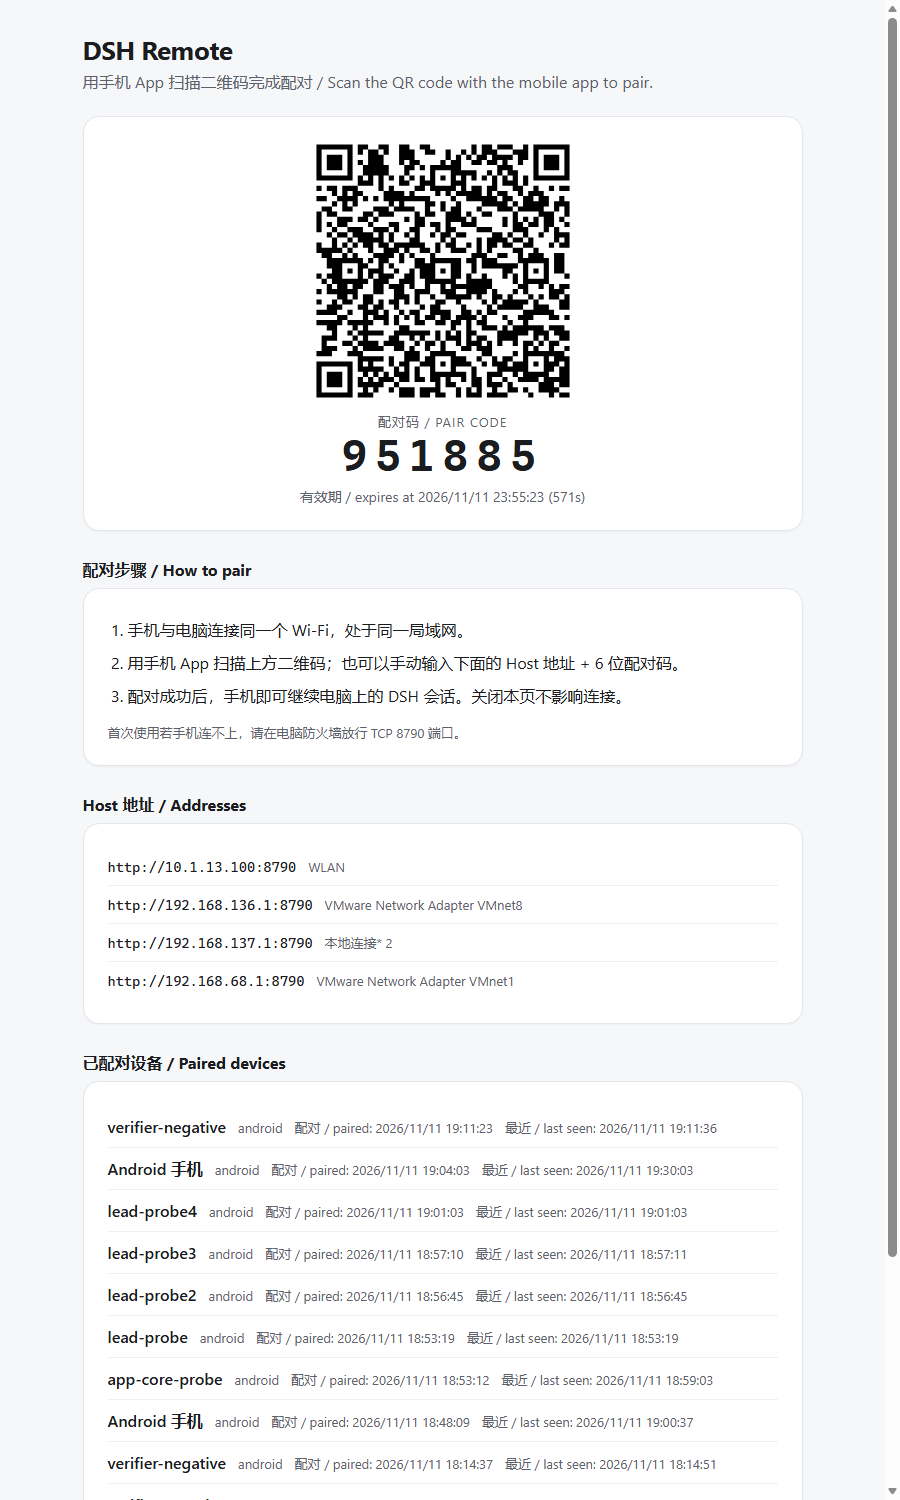
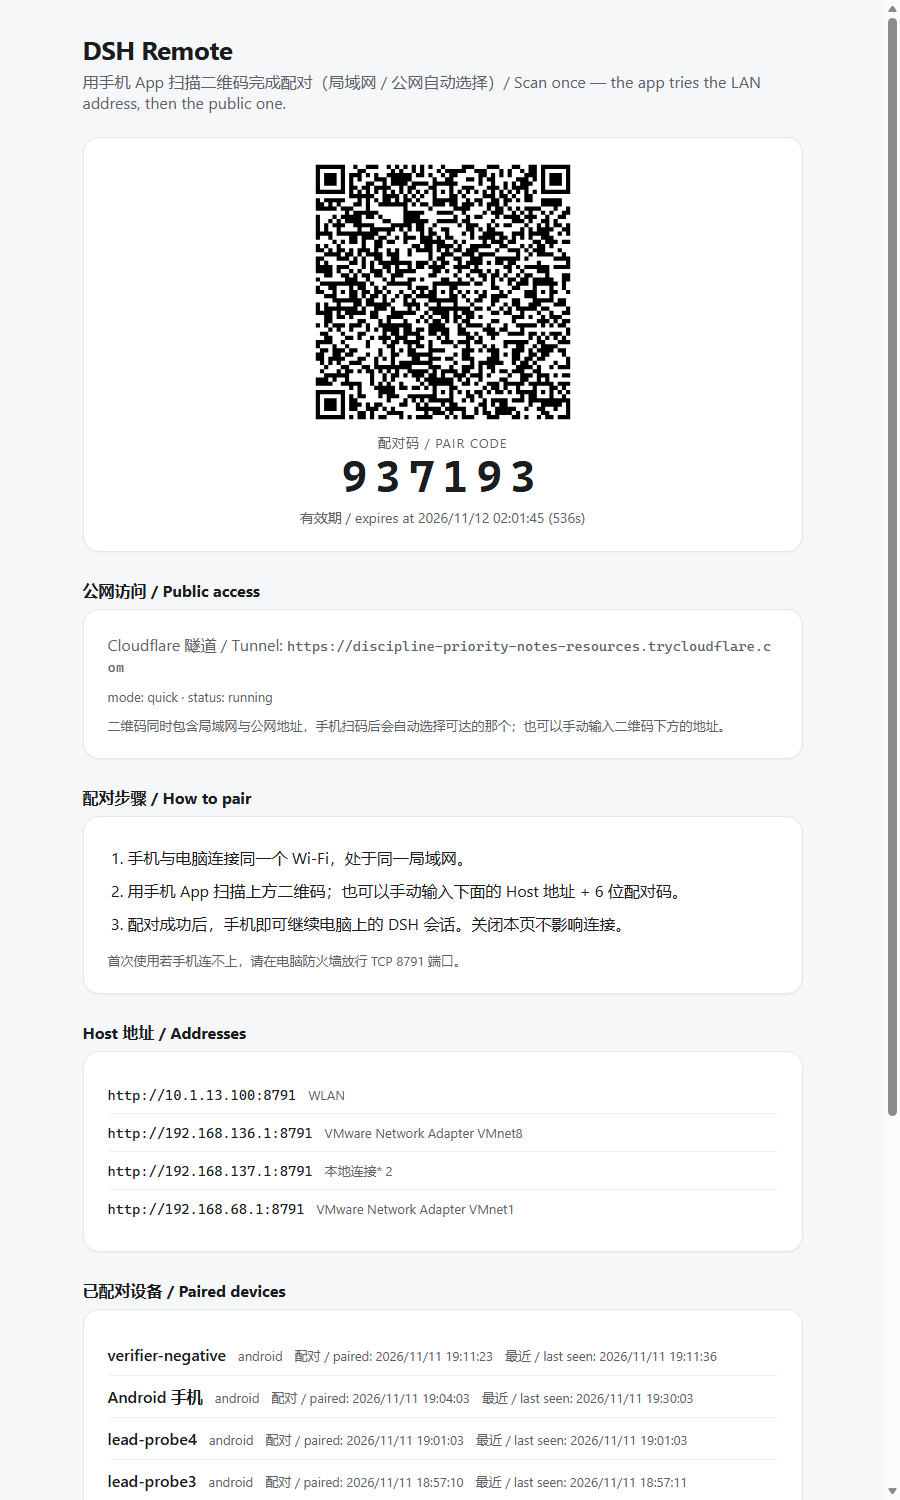
docs: refresh README screenshots for single-QR settings page and pairing page

diff --git a/README.md b/README.md
@@ -75,7 +75,7 @@
 
 <table>
 <tr>
-<td><img src="docs/verification/screenshots/centered-02-connect.png" alt="连接页" /></td>
+<td><img src="docs/verification/screenshots/app-015-connect.png" alt="连接页" /></td>
 <td><img src="docs/verification/screenshots/32-keyboard.png" alt="键盘上方输入" /></td>
 <td><img src="docs/verification/screenshots/36-progress.png" alt="流式与工具卡" /></td>
 </tr>
